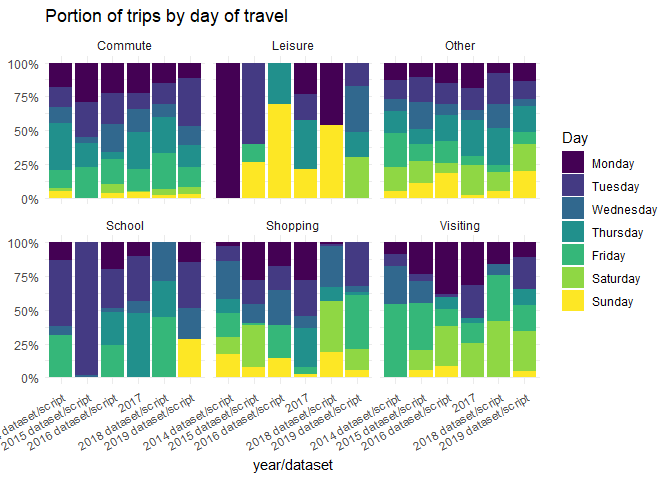
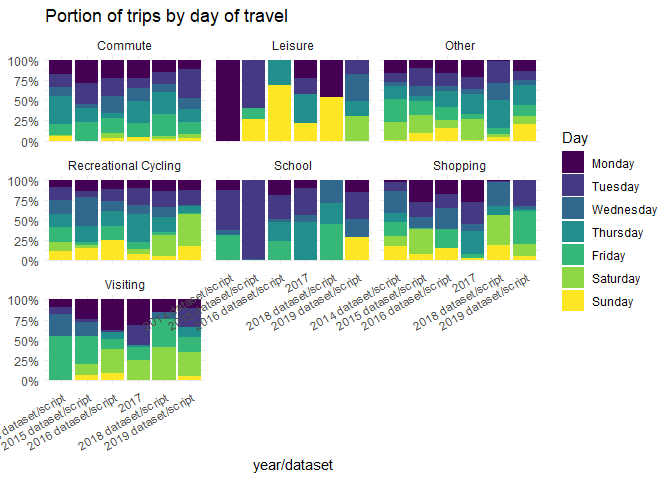
added direction to the analysis

diff --git a/README.md b/README.md
@@ -523,11 +523,11 @@ NPT_purposes_equiv <- tribble(
   103, 'Commute',
   4, 'Shopping',
   104, 'Shopping',
-  15, 'Other',
+  15, 'Recreational Cycling',
   29, 'Other',
   129, 'Other',
   1, 'Other',
-  115, 'Other',
+  115, 'Recreational Cycling',
   34, 'Leisure',
   6, 'Visiting',
   19, 'Other',
@@ -587,10 +587,11 @@ kable(tbl_purposes |>
                        select(-NPT_purpose)) |>
   pack_rows(index = table(tbl_purposes$NPT_purpose)) |> 
   kable_classic(full_width = F) |>
-  as_image(width = 6,file = "README_files/figure-gfm/purpose_table.png")
+  as_image(width = 3,
+           file = "README_files/figure-gfm/purpose_table.png")
 ```
 
-<img src="README_files/figure-gfm/purpose_table.png" width="576" />
+<img src="README_files/figure-gfm/purpose_table.png" width="288" />
 
 Based on this purposes, we can produce a plot for proportion of trips by
 day of travel for each dataset
@@ -703,16 +704,16 @@ N_bar_daily_BL |>
   arrange(travday)
 ```
 
-    ## # A tibble: 7 × 7
-    ##   travday       Commute Leisure Other School Shopping Visiting
-    ##   <dbl+lbl>       <dbl>   <dbl> <dbl>  <dbl>    <dbl>    <dbl>
-    ## 1 1 [Monday]      0.947  0.0851 0.675  0.167    0.116   0.214 
-    ## 2 2 [Tuesday]     0.855  0.101  0.755  0.327    0.151   0.122 
-    ## 3 3 [Wednesday]   0.870  0.157  0.774  0.125    0.247   0.159 
-    ## 4 4 [Thursday]    0.972  0.0461 0.924  0.380    0.126   0.0866
-    ## 5 5 [Friday]      1.00   0.0556 0.633  0.361    0.184   0.270 
-    ## 6 6 [Saturday]    0.279  0.0841 1.27   0        0.412   0.420 
-    ## 7 7 [Sunday]      0.463  0.193  1.04   0.243    0.297   0.128
+    ## # A tibble: 7 × 8
+    ##   travday  Commute Leisure Other `Recreational Cycling` School Shopping Visiting
+    ##   <dbl+lb>   <dbl>   <dbl> <dbl>                  <dbl>  <dbl>    <dbl>    <dbl>
+    ## 1 1 [Mond…   0.947  0.0851 0.444                  0.231  0.167    0.116   0.214 
+    ## 2 2 [Tues…   0.855  0.101  0.505                  0.251  0.327    0.151   0.122 
+    ## 3 3 [Wedn…   0.870  0.157  0.409                  0.365  0.125    0.247   0.159 
+    ## 4 4 [Thur…   0.972  0.0461 0.626                  0.298  0.380    0.126   0.0866
+    ## 5 5 [Frid…   1.00   0.0556 0.489                  0.144  0.361    0.184   0.270 
+    ## 6 6 [Satu…   0.279  0.0841 0.937                  0.398  0        0.412   0.420 
+    ## 7 7 [Sund…   0.463  0.193  0.543                  0.492  0.243    0.297   0.128
 
 In order to consider the different weights of each type of day in a year
 i.e., the total number of Mondays, Tuesdays, etc; days are grouped into
@@ -733,15 +734,16 @@ AADT_factors_bike_BL |>
   mutate(weekly_trips = AADT_bike*7)
 ```
 
-    ## # A tibble: 6 × 3
-    ##   NPT_purpose AADT_bike weekly_trips
-    ##   <chr>           <dbl>        <dbl>
-    ## 1 Commute         0.756        5.29 
-    ## 2 Leisure         0.106        0.744
-    ## 3 Other           0.875        6.12 
-    ## 4 School          0.266        1.86 
-    ## 5 Shopping        0.223        1.56 
-    ## 6 Visiting        0.199        1.39
+    ## # A tibble: 7 × 3
+    ##   NPT_purpose          AADT_bike weekly_trips
+    ##   <chr>                    <dbl>        <dbl>
+    ## 1 Commute                  0.756        5.29 
+    ## 2 Leisure                  0.106        0.744
+    ## 3 Other                    0.566        3.96 
+    ## 4 Recreational Cycling     0.318        2.23 
+    ## 5 School                   0.266        1.86 
+    ## 6 Shopping                 0.223        1.56 
+    ## 7 Visiting                 0.199        1.39
 
 ***NOTE:*** The commute trip rate is normalised for all adult population
 i.e., employed + unemployed.
@@ -780,16 +782,16 @@ N_bar_daily_all |>
   arrange(travday)
 ```
 
-    ## # A tibble: 7 × 7
-    ##   travday       Commute Leisure Other School Shopping Visiting
-    ##   <dbl+lbl>       <dbl>   <dbl> <dbl>  <dbl>    <dbl>    <dbl>
-    ## 1 1 [Monday]      0.754   0.174 0.865 0.211     0.541    0.210
-    ## 2 2 [Tuesday]     0.784   0.157 0.884 0.209     0.509    0.207
-    ## 3 3 [Wednesday]   0.803   0.172 0.898 0.209     0.511    0.206
-    ## 4 4 [Thursday]    0.799   0.170 0.898 0.209     0.513    0.216
-    ## 5 5 [Friday]      0.803   0.191 0.901 0.195     0.561    0.259
-    ## 6 6 [Saturday]    0.240   0.274 0.882 0.0140    0.902    0.367
-    ## 7 7 [Sunday]      0.231   0.301 0.968 0.0178    0.648    0.413
+    ## # A tibble: 7 × 8
+    ##   travday  Commute Leisure Other `Recreational Cycling` School Shopping Visiting
+    ##   <dbl+lb>   <dbl>   <dbl> <dbl>                  <dbl>  <dbl>    <dbl>    <dbl>
+    ## 1 1 [Mond…   0.754   0.174 0.859                0.00531 0.211     0.541    0.210
+    ## 2 2 [Tues…   0.784   0.157 0.878                0.00598 0.209     0.509    0.207
+    ## 3 3 [Wedn…   0.803   0.172 0.893                0.00517 0.209     0.511    0.206
+    ## 4 4 [Thur…   0.799   0.170 0.892                0.00637 0.209     0.513    0.216
+    ## 5 5 [Frid…   0.803   0.191 0.896                0.00492 0.195     0.561    0.259
+    ## 6 6 [Satu…   0.240   0.274 0.876                0.00773 0.0140    0.902    0.367
+    ## 7 7 [Sund…   0.231   0.301 0.959                0.00879 0.0178    0.648    0.413
 
 ``` r
 AADT_factors_all <- N_bar_daily_all |>
@@ -803,15 +805,16 @@ AADT_factors_all |>
   mutate(weekly_trips = AADT_all*7)
 ```
 
-    ## # A tibble: 6 × 3
-    ##   NPT_purpose AADT_all weekly_trips
-    ##   <chr>          <dbl>        <dbl>
-    ## 1 Commute        0.614         4.30
-    ## 2 Leisure        0.209         1.46
-    ## 3 Other          0.902         6.31
-    ## 4 School         0.147         1.03
-    ## 5 Shopping       0.601         4.21
-    ## 6 Visiting       0.274         1.92
+    ## # A tibble: 7 × 3
+    ##   NPT_purpose          AADT_all weekly_trips
+    ##   <chr>                   <dbl>        <dbl>
+    ## 1 Commute               0.614         4.30  
+    ## 2 Leisure               0.209         1.46  
+    ## 3 Other                 0.895         6.27  
+    ## 4 Recreational Cycling  0.00642       0.0450
+    ## 5 School                0.147         1.03  
+    ## 6 Shopping              0.601         4.21  
+    ## 7 Visiting              0.274         1.92
 
 ***NOTE:*** The commute trip rate is normalised for all adult population
 i.e., employed + unemployed.
@@ -982,15 +985,16 @@ write_csv(AADT_output,"../npt/data-raw/AADT_factors.csv")
 AADT_output
 ```
 
-    ## # A tibble: 6 × 5
-    ##   NPT_purpose AADT_all AADT_bike Weekly_all_total Weekly_bike_total
-    ##   <chr>          <dbl>     <dbl>            <dbl>             <dbl>
-    ## 1 Commute        0.973     0.735             6.81             5.14 
-    ## 2 Leisure        0.209     0.106             1.46             0.744
-    ## 3 Other          0.902     0.875             6.31             6.12 
-    ## 4 School         0.147     0.266             1.03             1.86 
-    ## 5 Shopping       0.601     0.223             4.21             1.56 
-    ## 6 Visiting       0.274     0.199             1.92             1.39
+    ## # A tibble: 7 × 5
+    ##   NPT_purpose          AADT_all AADT_bike Weekly_all_total Weekly_bike_total
+    ##   <chr>                   <dbl>     <dbl>            <dbl>             <dbl>
+    ## 1 Commute               0.973       0.735           6.81               5.14 
+    ## 2 Leisure               0.209       0.106           1.46               0.744
+    ## 3 Other                 0.895       0.566           6.27               3.96 
+    ## 4 Recreational Cycling  0.00642     0.318           0.0450             2.23 
+    ## 5 School                0.147       0.266           1.03               1.86 
+    ## 6 Shopping              0.601       0.223           4.21               1.56 
+    ## 7 Visiting              0.274       0.199           1.92               1.39
 
 Committing the changes
 
@@ -1016,7 +1020,175 @@ AADT_output |>
     ## # A tibble: 1 × 4
     ##   AADT_all AADT_bike Weekly_all_total Weekly_bike_total
     ##      <dbl>     <dbl>            <dbl>             <dbl>
-    ## 1     3.10      2.40             21.7              16.8
+    ## 1     3.11      2.41             21.7              16.9
+
+### Outbound and Return analysis
+
+The following code present a summary of the trip rates for all modes
+disaggregating by direction
+
+``` r
+purpose_trips_all_dir = data.stage |>
+  select(mode,UNIQIDNEW,dyear,IND_WT,trav_wt,purpose_new,travday) |> 
+  left_join(NPT_purposes_equiv,by = "purpose_new") |>
+  mutate(NPT_purpose = if_else(is.na(NPT_purpose),"Other",NPT_purpose),
+         NPT_purpose = if_else(str_length(purpose_new)==3,
+                               paste(NPT_purpose,"Return"),paste(NPT_purpose,"Outbound")))|>
+  summarise(N_trips = n(),
+            .by = c(dyear,travday,UNIQIDNEW,NPT_purpose,trav_wt)) |> 
+  summarise(N_trips = sum(N_trips*trav_wt,na.rm = T),
+            .by = c(dyear,NPT_purpose,travday)) 
+
+N_bar_daily_all_dir = purpose_trips_all_dir |> 
+  left_join(total_respondents_all,
+            by=join_by(dyear,travday)) |> 
+  mutate(N_bar = N_trips/N_ind) |> 
+  summarise(across(N_bar,mean,na.rm = T),.by = c(NPT_purpose,travday)) |> 
+  arrange(NPT_purpose,travday)
+
+N_bar_daily_all_dir |>
+  arrange(NPT_purpose) |> 
+  print(n=105)
+```
+
+    ## # A tibble: 105 × 3
+    ##     NPT_purpose                   travday         N_bar
+    ##     <chr>                         <dbl+lbl>       <dbl>
+    ##   1 Commute Outbound              1 [Monday]    0.673  
+    ##   2 Commute Outbound              2 [Tuesday]   0.709  
+    ##   3 Commute Outbound              3 [Wednesday] 0.729  
+    ##   4 Commute Outbound              4 [Thursday]  0.744  
+    ##   5 Commute Outbound              5 [Friday]    0.743  
+    ##   6 Commute Outbound              6 [Saturday]  0.222  
+    ##   7 Commute Outbound              7 [Sunday]    0.209  
+    ##   8 Commute Return                1 [Monday]    0.546  
+    ##   9 Commute Return                2 [Tuesday]   0.574  
+    ##  10 Commute Return                3 [Wednesday] 0.574  
+    ##  11 Commute Return                4 [Thursday]  0.584  
+    ##  12 Commute Return                5 [Friday]    0.583  
+    ##  13 Commute Return                6 [Saturday]  0.169  
+    ##  14 Commute Return                7 [Sunday]    0.164  
+    ##  15 Leisure Outbound              1 [Monday]    0.191  
+    ##  16 Leisure Outbound              2 [Tuesday]   0.173  
+    ##  17 Leisure Outbound              3 [Wednesday] 0.185  
+    ##  18 Leisure Outbound              4 [Thursday]  0.202  
+    ##  19 Leisure Outbound              5 [Friday]    0.229  
+    ##  20 Leisure Outbound              6 [Saturday]  0.305  
+    ##  21 Leisure Outbound              7 [Sunday]    0.308  
+    ##  22 Leisure Return                1 [Monday]    0.0897 
+    ##  23 Leisure Return                2 [Tuesday]   0.0836 
+    ##  24 Leisure Return                3 [Wednesday] 0.0851 
+    ##  25 Leisure Return                4 [Thursday]  0.0846 
+    ##  26 Leisure Return                5 [Friday]    0.0777 
+    ##  27 Leisure Return                6 [Saturday]  0.153  
+    ##  28 Leisure Return                7 [Sunday]    0.184  
+    ##  29 Other Outbound                1 [Monday]    1.12   
+    ##  30 Other Outbound                2 [Tuesday]   1.10   
+    ##  31 Other Outbound                3 [Wednesday] 1.16   
+    ##  32 Other Outbound                4 [Thursday]  1.16   
+    ##  33 Other Outbound                5 [Friday]    1.18   
+    ##  34 Other Outbound                6 [Saturday]  1.13   
+    ##  35 Other Outbound                7 [Sunday]    1.18   
+    ##  36 Other Return                  1 [Monday]    0.280  
+    ##  37 Other Return                  2 [Tuesday]   0.289  
+    ##  38 Other Return                  3 [Wednesday] 0.274  
+    ##  39 Other Return                  4 [Thursday]  0.270  
+    ##  40 Other Return                  5 [Friday]    0.243  
+    ##  41 Other Return                  6 [Saturday]  0.319  
+    ##  42 Other Return                  7 [Sunday]    0.368  
+    ##  43 Recreational Cycling Outbound 1 [Monday]    0.00529
+    ##  44 Recreational Cycling Outbound 2 [Tuesday]   0.00693
+    ##  45 Recreational Cycling Outbound 3 [Wednesday] 0.00469
+    ##  46 Recreational Cycling Outbound 4 [Thursday]  0.00802
+    ##  47 Recreational Cycling Outbound 5 [Friday]    0.00410
+    ##  48 Recreational Cycling Outbound 6 [Saturday]  0.00857
+    ##  49 Recreational Cycling Outbound 7 [Sunday]    0.00837
+    ##  50 Recreational Cycling Return   1 [Monday]    0.00326
+    ##  51 Recreational Cycling Return   2 [Tuesday]   0.00321
+    ##  52 Recreational Cycling Return   3 [Wednesday] 0.00316
+    ##  53 Recreational Cycling Return   4 [Thursday]  0.00315
+    ##  54 Recreational Cycling Return   5 [Friday]    0.00529
+    ##  55 Recreational Cycling Return   6 [Saturday]  0.00690
+    ##  56 Recreational Cycling Return   7 [Sunday]    0.00583
+    ##  57 School Outbound               1 [Monday]    0.214  
+    ##  58 School Outbound               2 [Tuesday]   0.213  
+    ##  59 School Outbound               3 [Wednesday] 0.216  
+    ##  60 School Outbound               4 [Thursday]  0.222  
+    ##  61 School Outbound               5 [Friday]    0.205  
+    ##  62 School Outbound               6 [Saturday]  0.0161 
+    ##  63 School Outbound               7 [Sunday]    0.0182 
+    ##  64 School Return                 1 [Monday]    0.132  
+    ##  65 School Return                 2 [Tuesday]   0.127  
+    ##  66 School Return                 3 [Wednesday] 0.116  
+    ##  67 School Return                 4 [Thursday]  0.107  
+    ##  68 School Return                 5 [Friday]    0.111  
+    ##  69 School Return                 6 [Saturday]  0.00874
+    ##  70 School Return                 7 [Sunday]    0.00840
+    ##  71 Shopping Outbound             1 [Monday]    0.550  
+    ##  72 Shopping Outbound             2 [Tuesday]   0.524  
+    ##  73 Shopping Outbound             3 [Wednesday] 0.524  
+    ##  74 Shopping Outbound             4 [Thursday]  0.543  
+    ##  75 Shopping Outbound             5 [Friday]    0.587  
+    ##  76 Shopping Outbound             6 [Saturday]  0.884  
+    ##  77 Shopping Outbound             7 [Sunday]    0.629  
+    ##  78 Shopping Return               1 [Monday]    0.328  
+    ##  79 Shopping Return               2 [Tuesday]   0.315  
+    ##  80 Shopping Return               3 [Wednesday] 0.312  
+    ##  81 Shopping Return               4 [Thursday]  0.312  
+    ##  82 Shopping Return               5 [Friday]    0.324  
+    ##  83 Shopping Return               6 [Saturday]  0.624  
+    ##  84 Shopping Return               7 [Sunday]    0.409  
+    ##  85 Visiting Outbound             1 [Monday]    0.236  
+    ##  86 Visiting Outbound             2 [Tuesday]   0.243  
+    ##  87 Visiting Outbound             3 [Wednesday] 0.235  
+    ##  88 Visiting Outbound             4 [Thursday]  0.253  
+    ##  89 Visiting Outbound             5 [Friday]    0.303  
+    ##  90 Visiting Outbound             6 [Saturday]  0.418  
+    ##  91 Visiting Outbound             7 [Sunday]    0.434  
+    ##  92 Visiting Return               1 [Monday]    0.105  
+    ##  93 Visiting Return               2 [Tuesday]   0.105  
+    ##  94 Visiting Return               3 [Wednesday] 0.0901 
+    ##  95 Visiting Return               4 [Thursday]  0.101  
+    ##  96 Visiting Return               5 [Friday]    0.116  
+    ##  97 Visiting Return               6 [Saturday]  0.185  
+    ##  98 Visiting Return               7 [Sunday]    0.233  
+    ##  99 <NA>                          1 [Monday]    0.00957
+    ## 100 <NA>                          2 [Tuesday]   0.00725
+    ## 101 <NA>                          3 [Wednesday] 0.0142 
+    ## 102 <NA>                          4 [Thursday]  0.0276 
+    ## 103 <NA>                          5 [Friday]    0.0150 
+    ## 104 <NA>                          6 [Saturday]  0.0251 
+    ## 105 <NA>                          7 [Sunday]    0.00152
+
+``` r
+N_bar_daily_all_dir |>
+  mutate(d.weight = case_when(travday < 6 ~ 50,
+                              travday == 6 ~ 52,
+                              travday == 7 ~ 63)) |>
+  summarise(AADT_all = weighted.mean(N_bar, w = d.weight),
+            .by = NPT_purpose) |>
+  mutate(weekly_trips = AADT_all*7) |> 
+  print(n=15)
+```
+
+    ## # A tibble: 15 × 3
+    ##    NPT_purpose                   AADT_all weekly_trips
+    ##    <chr>                            <dbl>        <dbl>
+    ##  1 Commute Outbound               0.560         3.92  
+    ##  2 Commute Return                 0.444         3.11  
+    ##  3 Leisure Outbound               0.231         1.62  
+    ##  4 Leisure Return                 0.111         0.779 
+    ##  5 Other Outbound                 1.15          8.05  
+    ##  6 Other Return                   0.295         2.06  
+    ##  7 Recreational Cycling Outbound  0.00664       0.0465
+    ##  8 Recreational Cycling Return    0.00447       0.0313
+    ##  9 School Outbound                0.152         1.06  
+    ## 10 School Return                  0.0839        0.588 
+    ## 11 Shopping Outbound              0.608         4.26  
+    ## 12 Shopping Return                0.377         2.64  
+    ## 13 Visiting Outbound              0.308         2.16  
+    ## 14 Visiting Return                0.137         0.962 
+    ## 15 <NA>                           0.0139        0.0975
 
 ## References
 
